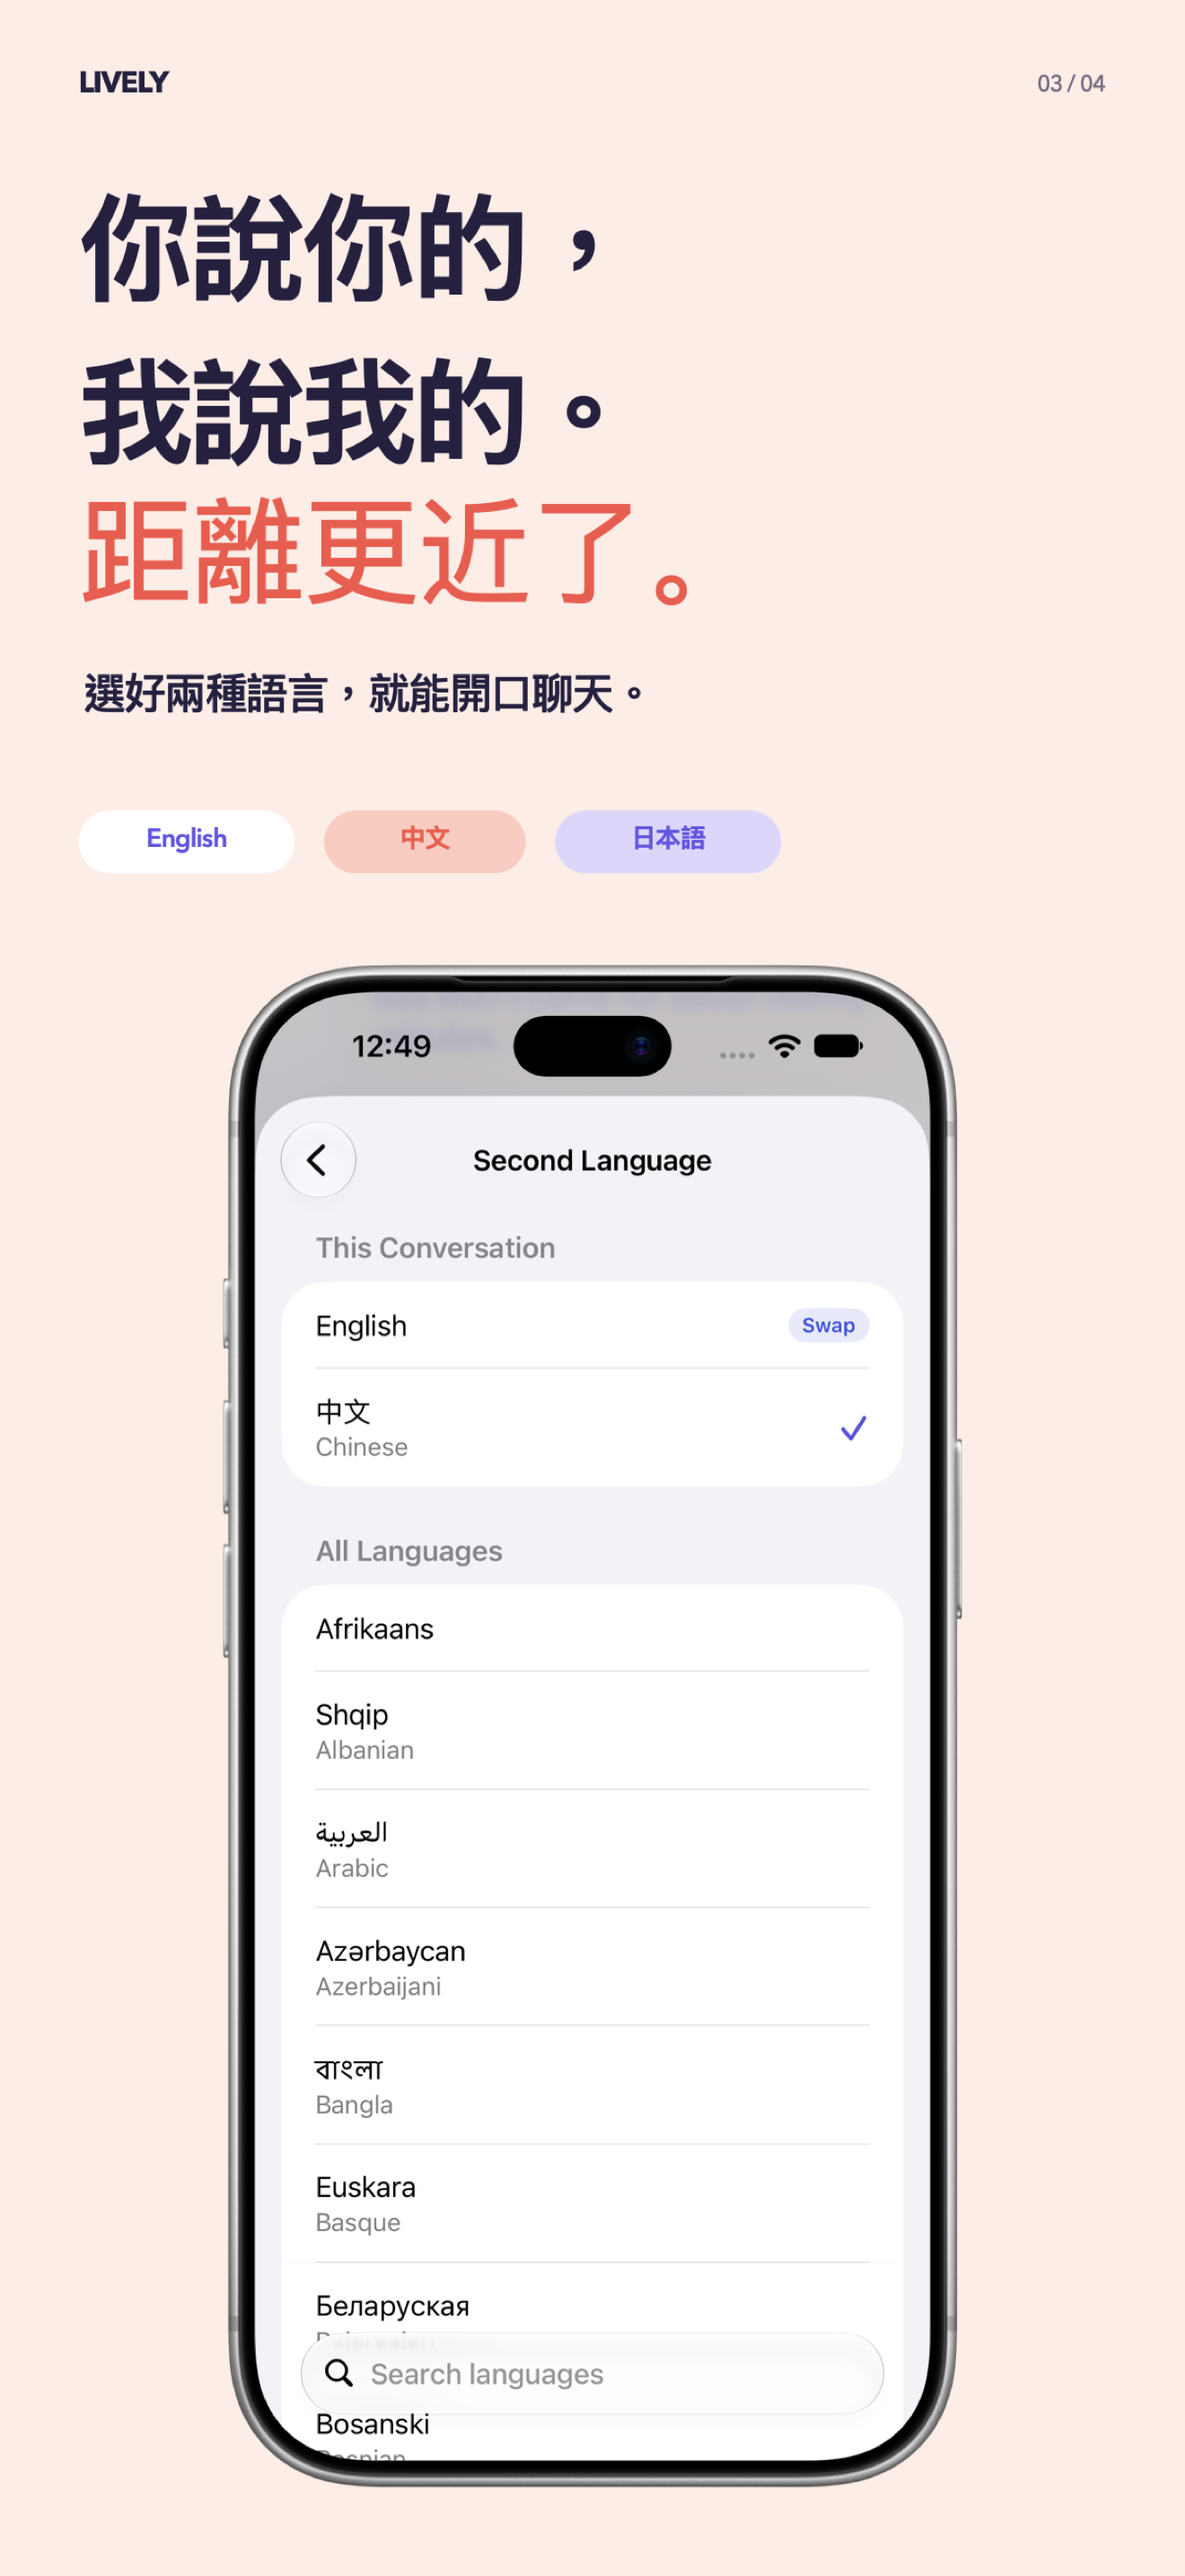
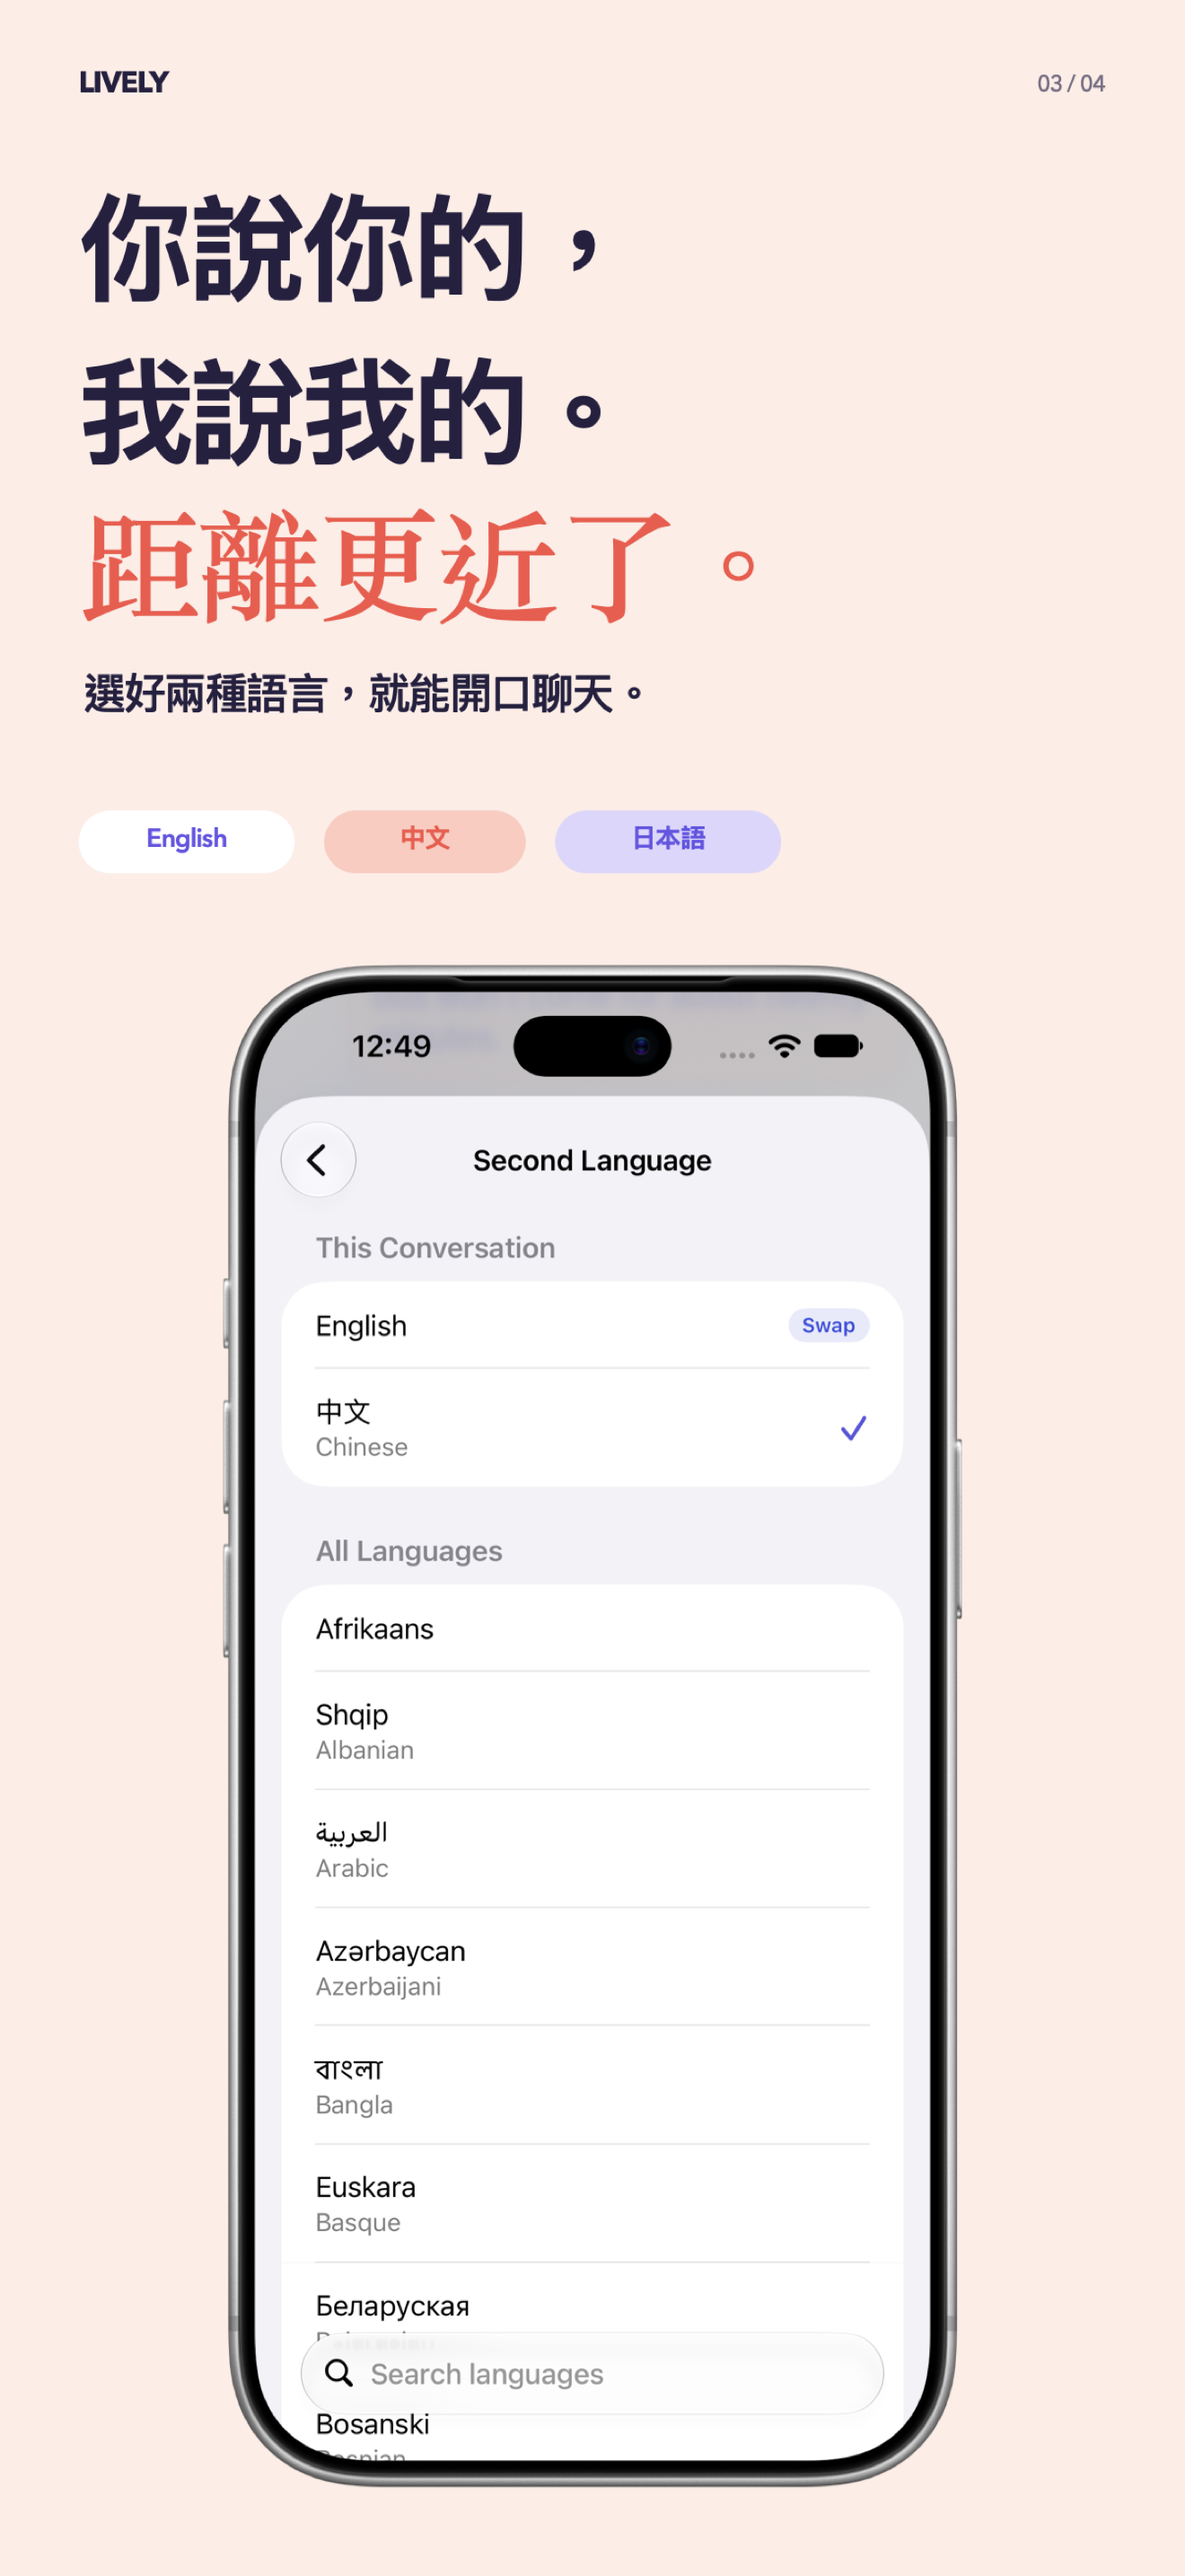
fix: use the Traditional Chinese serif and record campaign setup

Changed region(s): [[0.0621, 0.1862, 0.5591, 0.2483], [0.5591, 0.2172, 0.5902, 0.2483]]

diff --git a/Tools/store-assets/render.swift b/Tools/store-assets/render.swift
@@ -46,7 +46,7 @@ func text(_ s:String,_ x:CGFloat,_ y:CGFloat,_ w:CGFloat,_ size:CGFloat,_ c:NSCo
     (value as NSString).draw(in:NSRect(x:x,y:y,width:w,height:900),withAttributes:[.font:font,.foregroundColor:c,.paragraphStyle:para,.kern:-size*0.035])
 }
 func serif(_ s:String,_ x:CGFloat,_ y:CGFloat,_ w:CGFloat,_ size:CGFloat,_ c:NSColor) {
-    let name = locale == "ja" ? "HiraMinProN-W6" : locale == "zh-Hant" ? "Songti-TC-Bold" : "Baskerville-Italic"
+    let name = locale == "ja" ? "HiraMinProN-W6" : locale == "zh-Hant" ? "STSongti-TC-Bold" : "Baskerville-Italic"
     (caption(s) as NSString).draw(in:NSRect(x:x,y:y,width:w,height:500),withAttributes:[.font:NSFont(name:name,size:size) ?? NSFont.systemFont(ofSize:size), .foregroundColor:c,.kern:-size*0.025])
 }
 func image(_ path:String,_ r:NSRect) {

diff --git a/AppStore/apple-ads/README.md b/AppStore/apple-ads/README.md
@@ -5,6 +5,12 @@ Use [us-campaigns.xlsx](us-campaigns.xlsx) to stage the five campaigns in
 All campaigns and ad groups start paused. The amounts below assume a USD
 Apple Ads account and are proposed starting bids and budgets.
 
+The initial setup was completed on November 19, 2026. Apple's downloaded
+settings confirmed all five campaigns and eight ad groups were paused.
+Apple Ads shows 17 exact targets, three broad targets and 17 campaign-level
+Discovery exclusions. Use the existing campaigns for this flight. The
+creation workbook and steps below are retained for reference.
+
 | Campaign | Average USD/day | Ad groups | Max USD/tap |
 | --- | ---: | --- | ---: |
 | Brand | 4 | Brand | 0.50 |
